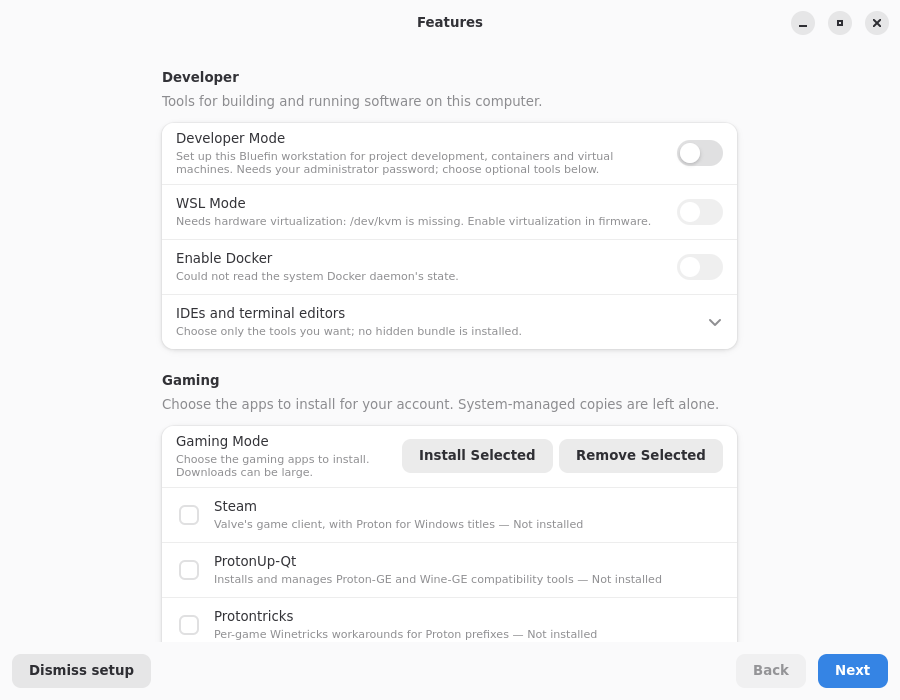
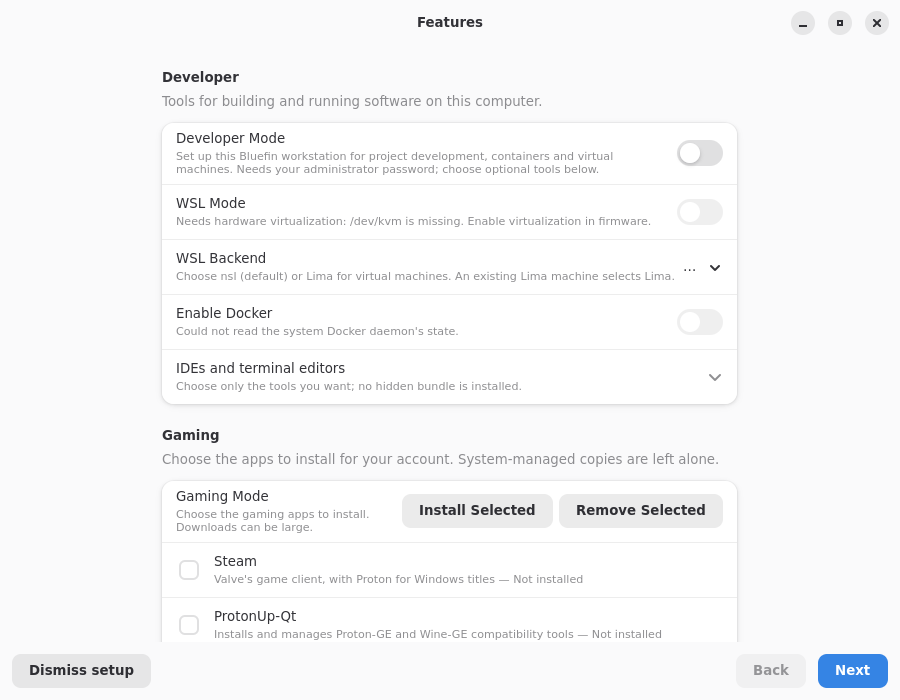
fix: address second review on wave 1
- parse helper exec markers without bufio.Scanner's 64 KiB line cap
- follow an existing Lima machine instead of resetting the WSL backend
  choice to nsl on every launch
- regenerate walkthrough screenshots for the new Livery and Features copy

Assisted-by: Claude Opus 5.5 via GitHub Copilot

diff --git a/internal/views/developer_tools.go b/internal/views/developer_tools.go
@@ -58,7 +58,7 @@ func (uh *UserHome) buildDeveloperOptions(group *adw.PreferencesGroup, status ub
 		if choice.kind == "wsl" {
 			combo := adw.NewComboRow()
 			combo.SetTitle("WSL Backend")
-			combo.SetSubtitle("Choose nsl (default) or Lima for virtual machines.")
+			combo.SetSubtitle("Choose nsl (default) or Lima for virtual machines. An existing Lima machine selects Lima.")
 			combo.SetModel(gtk.NewStringList([]string{"nsl (default)", "Lima"}))
 			uh.wslSuppress = true
 			if uh.wslBackend == devtools.BackendLima {
@@ -115,6 +115,7 @@ func (uh *UserHome) refreshDeveloperOptions(status ublue.Status) {
 	}
 	uh.setDeveloperSensitive(false)
 	backend := uh.wslBackend
+	resolve := !uh.wslBackendResolved
 	go func() {
 		ctx, cancel := ublue.DefaultContext()
 		defer cancel()
@@ -122,6 +123,14 @@ func (uh *UserHome) refreshDeveloperOptions(status ublue.Status) {
 		var wslErr error
 		var doctorOutput string
 		var doctorErr error
+		if backend == devtools.BackendNSL && resolve {
+			// The backend choice is not stored: an existing Lima machine with
+			// no nsl machine means the user chose Lima, so the first read
+			// follows it instead of resetting to the default.
+			nsl, nslErr := devtools.NSLStatus(ctx)
+			lima, limaErr := devtools.LimaStatus(ctx)
+			backend = devtools.ResolveBackend(backend, nslErr == nil && nsl.Exists, limaErr == nil && lima.Exists)
+		}
 		if backend == devtools.BackendLima {
 			wsl, wslErr = devtools.LimaStatus(ctx)
 		} else {
@@ -136,6 +145,17 @@ func (uh *UserHome) refreshDeveloperOptions(status ublue.Status) {
 		casks, caskErr := homebrew.ListInstalledCasks()
 		sgtk.RunOnMainThread(func() {
 			defer uh.developerGate.Reset()
+			if resolve {
+				uh.wslBackendResolved = true
+				if backend != uh.wslBackend {
+					uh.wslBackend = backend
+					if uh.wslCombo != nil {
+						uh.wslSuppress = true
+						uh.wslCombo.SetSelected(1)
+						uh.wslSuppress = false
+					}
+				}
+			}
 			brew := uh.capabilities[capability.Homebrew]
 			for _, item := range uh.developerOptions {
 				switch item.kind {

diff --git a/internal/views/views.go b/internal/views/views.go
@@ -201,24 +201,25 @@ type UserHome struct {
 	// released as soon as the helper returns, while a user-scope Flatpak
 	// install keeps running off the main thread. Overlapping installs are
 	// refused by this gate, not by holding the switch insensitive.
-	developerFeedGate actionstate.Gate
-	gamingGroup       *adw.PreferencesGroup
-	gamingRow         *adw.ActionRow
-	gamingComponents  []*gamingComponentRow
-	gamingInstall     *gtk.Button
-	gamingRemove      *gtk.Button
-	gamingGate        actionstate.Gate
-	gamingButtons     buttonRoute
-	gamingDialogs     dialogRoute
-	developerOptions  []*developerOptionRow
-	developerButtons  buttonRoute
-	wslBackend        string
-	wslCombo          *adw.ComboRow
-	wslSuppress       bool
-	wslBackendNotify  func(gobject.Object, uintptr)
-	driverRow         *adw.ActionRow
-	driverButton      *gtk.Button
-	driverGate        actionstate.Gate
+	developerFeedGate  actionstate.Gate
+	gamingGroup        *adw.PreferencesGroup
+	gamingRow          *adw.ActionRow
+	gamingComponents   []*gamingComponentRow
+	gamingInstall      *gtk.Button
+	gamingRemove       *gtk.Button
+	gamingGate         actionstate.Gate
+	gamingButtons      buttonRoute
+	gamingDialogs      dialogRoute
+	developerOptions   []*developerOptionRow
+	developerButtons   buttonRoute
+	wslBackend         string
+	wslCombo           *adw.ComboRow
+	wslSuppress        bool
+	wslBackendResolved bool
+	wslBackendNotify   func(gobject.Object, uintptr)
+	driverRow          *adw.ActionRow
+	driverButton       *gtk.Button
+	driverGate         actionstate.Gate
 
 	// Staged-update changelog (SBOM diff), with visible Compare and optional
 	// result details in the system-update secondary group.

diff --git a/internal/devtools/devtools_test.go b/internal/devtools/devtools_test.go
@@ -386,3 +386,20 @@ func TestWSLHostSupportedCheck(t *testing.T) {
 		t.Errorf("WSLHostSupported(nsl) mismatch with NSLHostSupported")
 	}
 }
+
+func TestResolveBackendFollowsAnExistingMachine(t *testing.T) {
+	for _, tc := range []struct {
+		configured        string
+		nslExists, limaOK bool
+		want              string
+	}{
+		{BackendNSL, false, false, BackendNSL},
+		{BackendNSL, false, true, BackendLima},
+		{BackendNSL, true, true, BackendNSL},
+		{BackendLima, true, false, BackendLima},
+	} {
+		if got := ResolveBackend(tc.configured, tc.nslExists, tc.limaOK); got != tc.want {
+			t.Errorf("ResolveBackend(%q, %v, %v) = %q, want %q", tc.configured, tc.nslExists, tc.limaOK, got, tc.want)
+		}
+	}
+}

diff --git a/internal/devtools/devtools.go b/internal/devtools/devtools.go
@@ -321,6 +321,16 @@ func LimaStatus(ctx context.Context) (WSLState, error) {
 	return state, nil
 }
 
+// ResolveBackend returns the backend whose machine the user already has when
+// the configured default is nsl: an existing Lima machine and no nsl machine
+// means Lima. An administrator's explicit Lima is kept as is.
+func ResolveBackend(configured string, nslExists, limaExists bool) string {
+	if configured == BackendNSL && limaExists && !nslExists {
+		return BackendLima
+	}
+	return configured
+}
+
 // WSLStatus reads the status for the chosen backend (defaults to nsl).
 func WSLStatus(ctx context.Context, backend ...string) (WSLState, error) {
 	b := BackendNSL

diff --git a/internal/helperexec/helperexec_test.go b/internal/helperexec/helperexec_test.go
@@ -523,3 +523,15 @@ func TestRunJournalsOutcomeRefusedOnExit126(t *testing.T) {
 		t.Errorf("entry[1].ExitCode = %v, want 126", entries[1].ExitCode)
 	}
 }
+
+func TestParseAndCleanExecKeepsLinesAfterAnOverlongLine(t *testing.T) {
+	long := strings.Repeat("x", 100*1024)
+	output := long + "\nchairlift-helper: exec [\"bootc\",\"status\"]\nafter\n"
+	clean, executed := parseAndCleanExec(output, "/usr/bin/chairlift-helper")
+	if clean != long+"\nafter\n" {
+		t.Fatalf("clean output lost lines after an overlong line (len %d)", len(clean))
+	}
+	if len(executed) != 1 || executed[0][0] != "bootc" {
+		t.Fatalf("executed = %v, want one bootc command", executed)
+	}
+}

diff --git a/internal/helperexec/helperexec.go b/internal/helperexec/helperexec.go
@@ -45,7 +45,6 @@
 package helperexec
 
 import (
-	"bufio"
 	"bytes"
 	"context"
 	"encoding/json"
@@ -228,9 +227,7 @@ func parseAndCleanExec(output, helperPath string) (string, [][]string) {
 	prefix := path.Base(helperPath) + ": exec "
 	var executed [][]string
 	var cleanLines []string
-	scanner := bufio.NewScanner(strings.NewReader(output))
-	for scanner.Scan() {
-		line := scanner.Text()
+	for _, line := range strings.Split(strings.TrimSuffix(output, "\n"), "\n") {
 		if strings.HasPrefix(line, prefix) || strings.HasPrefix(line, ubluehelper.HelperExecPrefix) {
 			idx := strings.Index(line, ": exec ")
 			if idx != -1 {

diff --git a/AGENTS.md b/AGENTS.md
@@ -610,7 +610,11 @@ An agent must not break these:
   Mode defaults to nsl (persistent Linux machines inside systemd-vmspawn and
   QEMU/KVM) with Lima (Ubuntu LTS VM) as an alternative backend, both with an
   explicit `/dev/kvm` permission floor; the fixed `kvm-enable` action grants
-  access to the invoking account, effective after a new login. Docker uses the
+  access to the invoking account, effective after a new login. The backend
+  choice is not stored: `wsl_backend` sets the default, and the first read
+  follows an existing Lima machine when no nsl machine exists
+  (`devtools.ResolveBackend`). A running machine stays stoppable even when
+  the start prerequisites are unmet. Docker uses the
   fixed enable/disable actions for its system daemon and requires actual socket
   readiness for this session, not installed CLI tools alone. Missing installed
   helper actions leave the affected switches insensitive with an explanation
